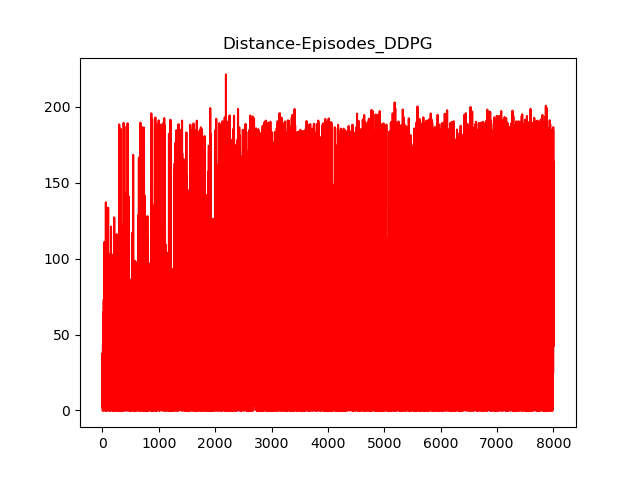
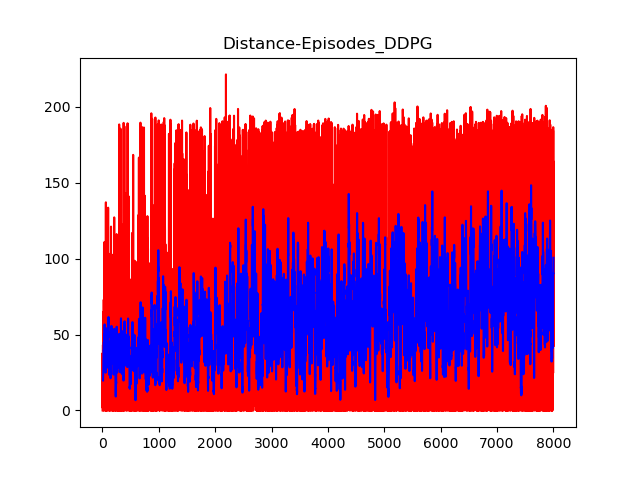
Add files via upload

Changed region(s): [[0.1562, 0.375, 0.875, 0.8438]]

diff --git a/DQN-CARLA-master/src/Diagrams_DQN.py b/DQN-CARLA-master/src/Diagrams_DQN.py
@@ -1,5 +1,7 @@
 import matplotlib.pyplot as plt
 import numpy as np
+import pandas as pd
+import statistics
 
 
 
@@ -17,7 +19,27 @@ with open("C:/Users\galag\OneDrive\Diploma\DQN-CARLA-master\src\episodes_info\ep
 with open("C:/Users\galag\OneDrive\Diploma\DQN-CARLA-master\src\episodes_info\episodes_reward.txt") as f:
     episodes_reward_list = [float(x) for x in f.read().split()]
 
+# rolling mean for rewards and mean
+pd_reward = pd.DataFrame(episodes_reward_list)
+rolling_mean_reward = pd_reward.rolling(10).mean()
+pd_dist = pd.DataFrame(episodes_dist_list)
+rolling_mean_dist = pd_dist.rolling(10).mean()
 
+# Calculate standard deviation and print for rewards and dist
+std_reward_DQN = statistics.stdev(episodes_reward_list)
+std_dist_DQN = statistics.stdev(episodes_dist_list)
+print("Standard deviation of DQN reward: " + str(std_reward_DQN))
+print("Standard deviation of DQN dist: " + str(std_dist_DQN))
+
+# Calculate 25% and 50% percentiles for rewards and dist
+per50_rewards_DQN = np.percentile(episodes_reward_list,50)
+per25_rewards_DQN = np.percentile(episodes_reward_list,25)
+per50_dist_DQN = np.percentile(episodes_dist_list,50)
+per25_dist_DQN = np.percentile(episodes_dist_list,25)
+print("50th percentile of DQN rewards: ", per50_rewards_DQN)
+print("25th percentile of DQN rewards: ", per25_rewards_DQN)
+print("50th percentile of DQN dist: ", per50_dist_DQN)
+print("25th percentile of DQN dist: ", per25_dist_DQN)
 
 
 for i in range(0,len(episodes_list)):
@@ -37,9 +59,12 @@ y3 = np.array(max_reward_list)
 y4 = np.array(average_dist_list)
 y5 = np.array(average_reward_list)
 y6 = np.array(episodes_dist_list)
+y7 = np.array(rolling_mean_reward)
+y8 = np.array(rolling_mean_dist)
 
 
 plt.plot(x1, y1, color="green")
+plt.plot(x1, y7, color="blue")
 plt.title("Reward-Episodes_DQN")
 plt.savefig('Reward-Episodes_8000_DQN.png')
 plt.close()
@@ -60,6 +85,7 @@ plt.title("Average Reward-Episodes_DQN")
 plt.savefig('Average Reward-Episodes_8000_DQN.png')
 plt.close()
 plt.plot(x1, y6, color="red")
+plt.plot(x1, y8, color="blue")
 plt.title("Distance-Episodes_DDPG")
 plt.savefig('Distance-Episodes_8000_DDPG.png')
 plt.close()
